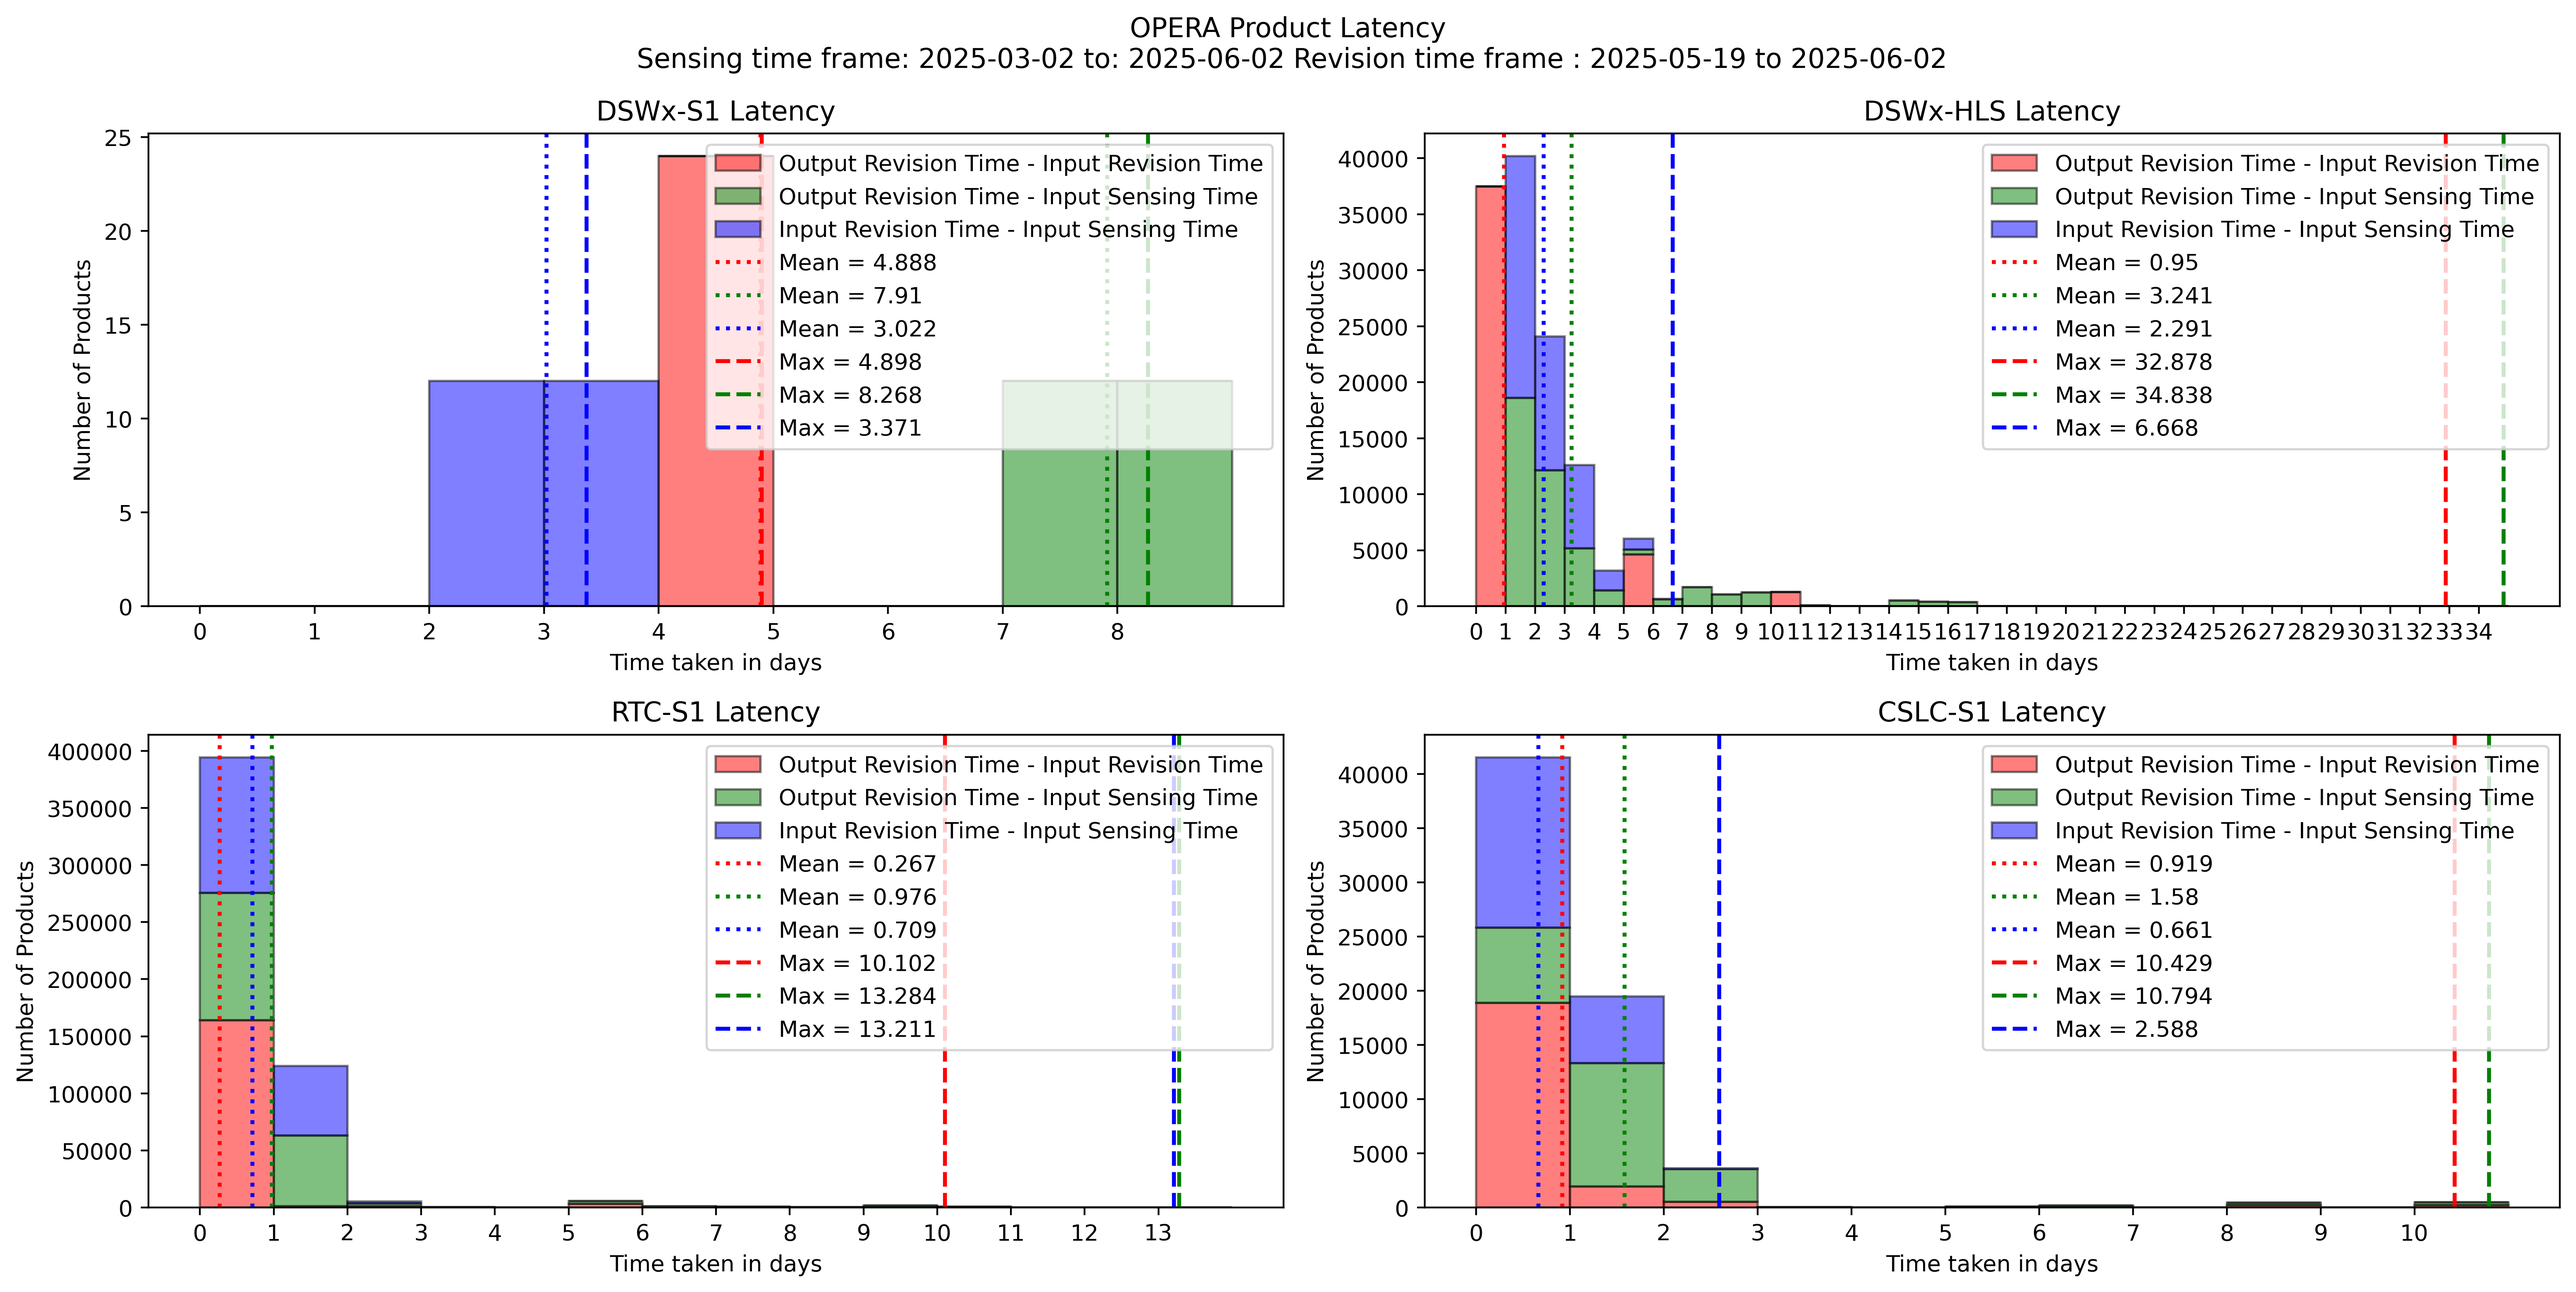
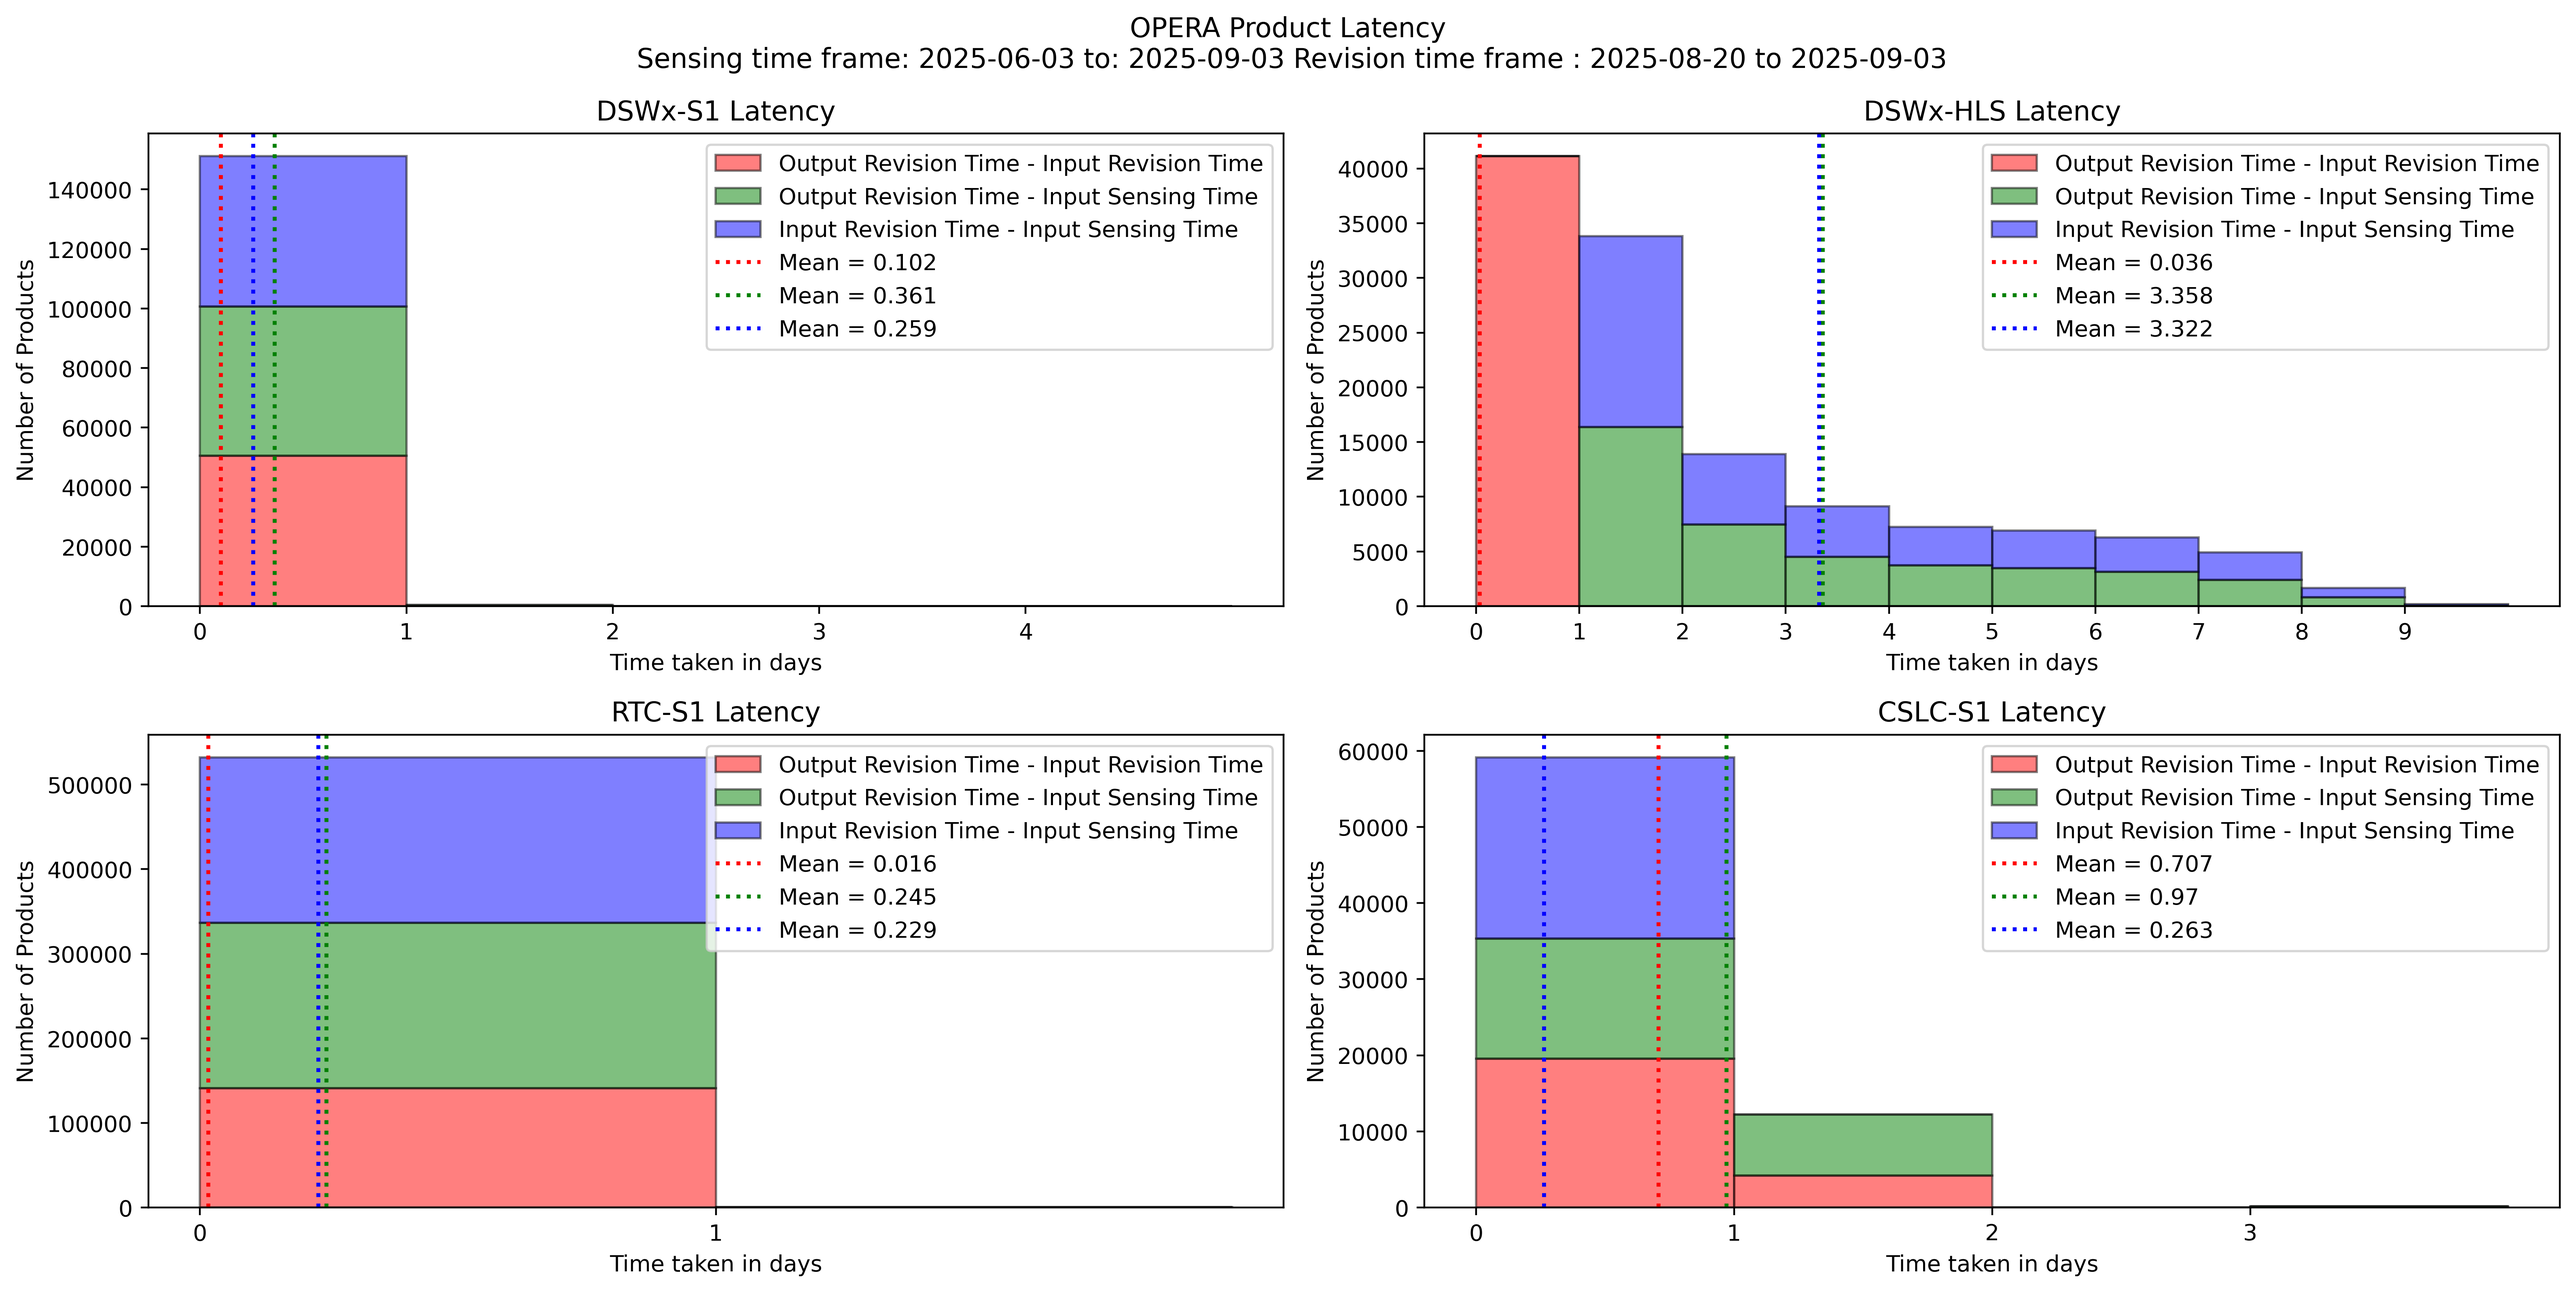
ignore outliers

diff --git a/monitoring/latency_graph.py b/monitoring/latency_graph.py
@@ -275,7 +275,7 @@ def cmr_input_search(cmr_input_begin_time, cmr_input_end_time, output_prod_type)
     return gran_batch_result
 
 
-def parse_input_granules(gran_batch_result, inputgran_output_revision_dict):
+def parse_input_granules(gran_batch_result, inputgran_output_revision_dict, limit=None):
     '''
     oiterate through the cmr results and parse and match results
     '''
@@ -317,6 +317,11 @@ def parse_input_granules(gran_batch_result, inputgran_output_revision_dict):
             for output_revision_date in inputgran_output_revision_dict[gran_id]:
                 # compute latency
                 out_inp_rev, out_inp_temp, inp_rev_inp_temp = compute_granule_latency(output_revision_date, inp_temporal_end, inp_revision_date)
+
+                # ignore values above our limit. this is to ignore outliers
+                if limit:
+                    if out_inp_rev > limit or out_inp_temp > limit or inp_rev_inp_temp > limit:
+                        continue
 
                 if out_inp_rev > tracking_dict["output_inp_revision_diff"]["mode"]:
                     tracking_dict["output_inp_revision_diff"]["mode"] = out_inp_rev
@@ -377,11 +382,13 @@ return time_taken_dict
 '''
 
 
-def histogram_plot_latency(time_taken_dict, temp_time, rev_time, fake_today=None, stacked=True):
+def histogram_plot_latency(time_taken_dict, temp_time, rev_time, fake_today=None, stacked=True, ignore_outliers=True):
     '''
     histogram seems like best way to represent the data
     rev_time = revision begin time
     temp_time = temporal begin time
+
+    ignore outliers to get rid of max. stats
     '''
     # today = string_to_datetime("2025-05-09T23:59:59Z")
     print("temp_time", temp_time)
@@ -485,8 +492,9 @@ def histogram_plot_latency(time_taken_dict, temp_time, rev_time, fake_today=None
             comp_title_spaces = ""
             mean_title = "Mean =" + comp_title_spaces + " " + str(round(mean, 3))
             mean_title_set.append(mean_title)
-            max_title = "Max =" + comp_title_spaces + " " + str(round(max(times_list), 3))
-            max_title_set.append(max_title)
+            if not ignore_outliers:
+                max_title = "Max =" + comp_title_spaces + " " + str(round(max(times_list), 3))
+                max_title_set.append(max_title)
 
 
         # max_time_list = roundup(max_time_list)
@@ -504,8 +512,9 @@ def histogram_plot_latency(time_taken_dict, temp_time, rev_time, fake_today=None
                 ax.hist(time_set[ind], bins=range(max_time_list + 2), alpha=0.25, linewidth=2, edgecolor=color_set[ind], color=color_set[ind], label=title_set[ind])
         for ind in range(len(mean_set)):
             ax.axvline(mean_set[ind], color=color_set[ind], linestyle=':', linewidth=1.75, label=mean_title_set[ind])
-        for ind in range(len(max_set)):
-            ax.axvline(max_set[ind], color=color_set[ind], linestyle='--', linewidth=1.75, label=max_title_set[ind])
+        if not ignore_outliers:
+            for ind in range(len(max_set)):
+                ax.axvline(max_set[ind], color=color_set[ind], linestyle='--', linewidth=1.75, label=max_title_set[ind])
 
 
         # ax.axvline(mean_set, color=color_set, linestyle='--', linewidth=1.75, label=mean_title_set)
@@ -561,7 +570,7 @@ def histogram_plot_latency(time_taken_dict, temp_time, rev_time, fake_today=None
     return png_filename
 
 
-def trigger_latency_graphs(temporal_delta_months=3, revision_delta=14):
+def trigger_latency_graphs(temporal_delta_months=3, revision_delta=14, limit_outliers=True):
     '''
     create latency graphs
     TEMPORARILY TESTING 3 DAYS TEMPORAL CHILL
@@ -586,7 +595,15 @@ def trigger_latency_graphs(temporal_delta_months=3, revision_delta=14):
         # prod_type, prod_time_taken_dict = parse_output_granules(output_results)
         #
         input_batch_result_dict = cmr_input_search(cmr_input_begin_time, cmr_input_end_time, output_prod_type)
-        prod_time_taken_dict = parse_input_granules(input_batch_result_dict, inputgran_output_revision_dict)
+        # limit outliers
+        limit = None
+        if limit_outliers:
+            if "OPERA_L3_DSWX-HLS" in collection:
+                limit = 10
+            else:
+                limit = 5
+
+        prod_time_taken_dict = parse_input_granules(input_batch_result_dict, inputgran_output_revision_dict, limit=limit)
         time_taken_dict[output_prod_type] = prod_time_taken_dict
 
     with open('time_taken_dict.json', 'w') as fp:
@@ -594,7 +611,7 @@ def trigger_latency_graphs(temporal_delta_months=3, revision_delta=14):
 
     print("temporal_begin:", temporal_begin)
     print("updated_since:", updated_since)
-    png_filename = histogram_plot_latency(time_taken_dict, temporal_begin, updated_since)
+    png_filename = histogram_plot_latency(time_taken_dict, temporal_begin, updated_since, ignore_outliers=True)
     print("My program took", time.time() - START_TIME, "to run")
 
 def main():
